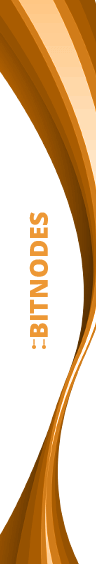
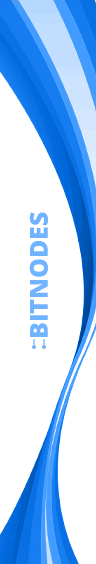
changed resources

diff --git a/src/qt/res/css/theme.css b/src/qt/res/css/theme.css
@@ -40,14 +40,14 @@ color:#333;
 }
 
 QToolBar {
-background-color:#ED9835;
+background-color:#167DF0;
 border:0px solid #000;
 padding:0;
 margin:0;
 }
 
 QToolBar > QToolButton {
-background-color:#ED9835;
+background-color:#167DF0;
 border:0px solid #333;
 min-height:2.5em;
 padding: 0em 1em;
@@ -101,7 +101,7 @@ background-color:#f2f2f2;
 /*******************************************************/
 
 QPushButton { /* Global Button Style */
-background-color:#ED9835;
+background-color:#167DF0;
 border:0;
 color:#ffffff;
 font-size:12px;
@@ -113,7 +113,7 @@ padding-bottom:5px;
 }
 
 QPushButton:hover {
-background-color:#F3A346;
+background-color:#157DF0;
 }
 
 QPushButton:focus {
@@ -138,7 +138,7 @@ background:#f2f2f2;
 }
 
 QComboBox:editable {
-background: #ED9835;
+background: #167DF0;
 color:#616161;
 border:0px solid transparent;
 }
@@ -233,7 +233,7 @@ background-color:transparent;
 
 QHeaderView::section { /* Table Header Sections */
 qproperty-alignment:center;
-background-color:#ED9835;
+background-color:#167DF0;
 color:#fff;
 min-height:25px;
 font-weight:bold;
@@ -655,7 +655,7 @@ min-width:180px;
 }
 
 QDialog#RPCConsole QWidget#tab_peers  QLabel#peerHeading { /* Peers Info Header */
-color:#ED9835;
+color:#167DF0;
 }
 
 QDialog#RPCConsole QPushButton#openDebugLogfileButton {
@@ -765,7 +765,7 @@ margin-left:16px;
 QWidget .QFrame#frame .QLabel#labelBalanceText { /* Available Balance Label */
 qproperty-alignment: 'AlignVCenter | AlignRight';
 min-width:160px;
-background-color:#F2972E;
+background-color:#167DF0;
 color:#ffffff;
 margin-right:5px;
 padding-right:5px;
@@ -864,7 +864,7 @@ qproperty-geometry: rect(10 0 431 35);
 QWidget .QFrame#frameDarksend .QLabel#label_2 { /* Darksend Header */
 qproperty-alignment: 'AlignVCenter | AlignRight';
 min-width:160px;
-background-color:#F2972E;
+background-color:#167DF0;
 color:#fff;
 margin-right:5px;
 padding-right:5px;
@@ -917,7 +917,7 @@ color:#818181;
 }
 
 QWidget .QFrame#frameDarksend #formLayoutWidget .QProgressBar#darksendProgress::chunk {
-background-color: #ED9835;
+background-color: #167DF0;
 width:1px;
 }
 
@@ -1045,7 +1045,7 @@ background-repeat:none;
 
 QWidget .QFrame#frame_2 .QLabel#label_4 { /* Recent Transactions Label */
 min-width:180px;
-color:#ED9835;
+color:#167DF0;
 margin-left:67px;
 margin-top:83px;
 margin-right:5px;
@@ -1089,7 +1089,7 @@ min-height:25px;
 }
 
 QDialog#SendCoinsDialog .QFrame#frameCoinControl .QLabel#labelCoinControlFeatures { /* Coin Control Header */
-color:#ED9835;
+color:#167DF0;
 font-weight:bold;
 font-size:14px;
 }
@@ -1203,7 +1203,7 @@ min-height:27px;
 /* SEND COINS ENTRY */
 
 QStackedWidget#SendCoinsEntry .QFrame#SendCoins > .QLabel { /* Send Coin Entry Labels */
-background-color:#F2972E;
+background-color:#167DF0;
 min-width:102px;
 font-weight:bold;
 font-size:11px;
@@ -1214,7 +1214,7 @@ padding-right:5px;
 }
 
 QStackedWidget#SendCoinsEntry .QFrame#SendCoins .QLabel#amountLabel {
-background-color:#848484;
+background-color:#021B36;
 }
 
 QStackedWidget#SendCoinsEntry .QValidatedLineEdit#payTo { /* Pay To Input Field */
@@ -1390,7 +1390,7 @@ QDialog#CoinControlDialog .CoinControlTreeWidget#treeWidget::indicator { /* Coin
 /* RECEIVE COINS */
 
 QWidget#ReceiveCoinsDialog .QFrame#frame2 .QLabel#label_2 { /* Label Label */
-background-color:#F2972E;
+background-color:#167DF0;
 min-width:102px;
 color:#ffffff;
 font-weight:bold;
@@ -1399,7 +1399,7 @@ padding-right:5px;
 }
 
 QWidget#ReceiveCoinsDialog .QFrame#frame2 .QLabel#label { /* Amount Label */
-background-color:#848484;
+background-color:#021B36;
 min-width:102px;
 color:#ffffff;
 font-weight:bold;
@@ -1408,7 +1408,7 @@ padding-right:5px;
 }
 
 QWidget#ReceiveCoinsDialog .QFrame#frame2 .QLabel#label_3 { /* Message Label */
-background-color:#F2972E;
+background-color:#167DF0;
 min-width:102px;
 color:#ffffff;
 font-weight:bold;
@@ -1468,7 +1468,7 @@ border:1px solid #9e9e9e;
 }
 
 QWidget#ReceiveCoinsDialog .QFrame#frame .QLabel#label_6 { /* Requested Payments History Label */
-color:#ED9835;
+color:#167DF0;
 font-weight:bold;
 font-size:14px;
 }

diff --git a/src/darksend.cpp b/src/darksend.cpp
@@ -2055,7 +2055,7 @@ bool CDarkSendSigner::IsVinAssociatedWithPubkey(CTxIn& vin, CPubKey& pubkey){
     uint256 hash;
     if(GetTransaction(vin.prevout.hash, txVin, hash, true)){
         BOOST_FOREACH(CTxOut out, txVin.vout){
-            if(out.nValue == 1000*COIN){
+            if(out.nValue == 10000*COIN){
                 if(out.scriptPubKey == payee2) return true;
             }
         }

diff --git a/src/crypto/common.h b/src/crypto/common.h
@@ -6,7 +6,7 @@
 #define BITCOIN_CRYPTO_COMMON_H
 
 #if defined(HAVE_CONFIG_H)
-#include "dash-config.h"
+#include "bitnodespro-config.h"
 #endif
 
 #include <stdint.h>
